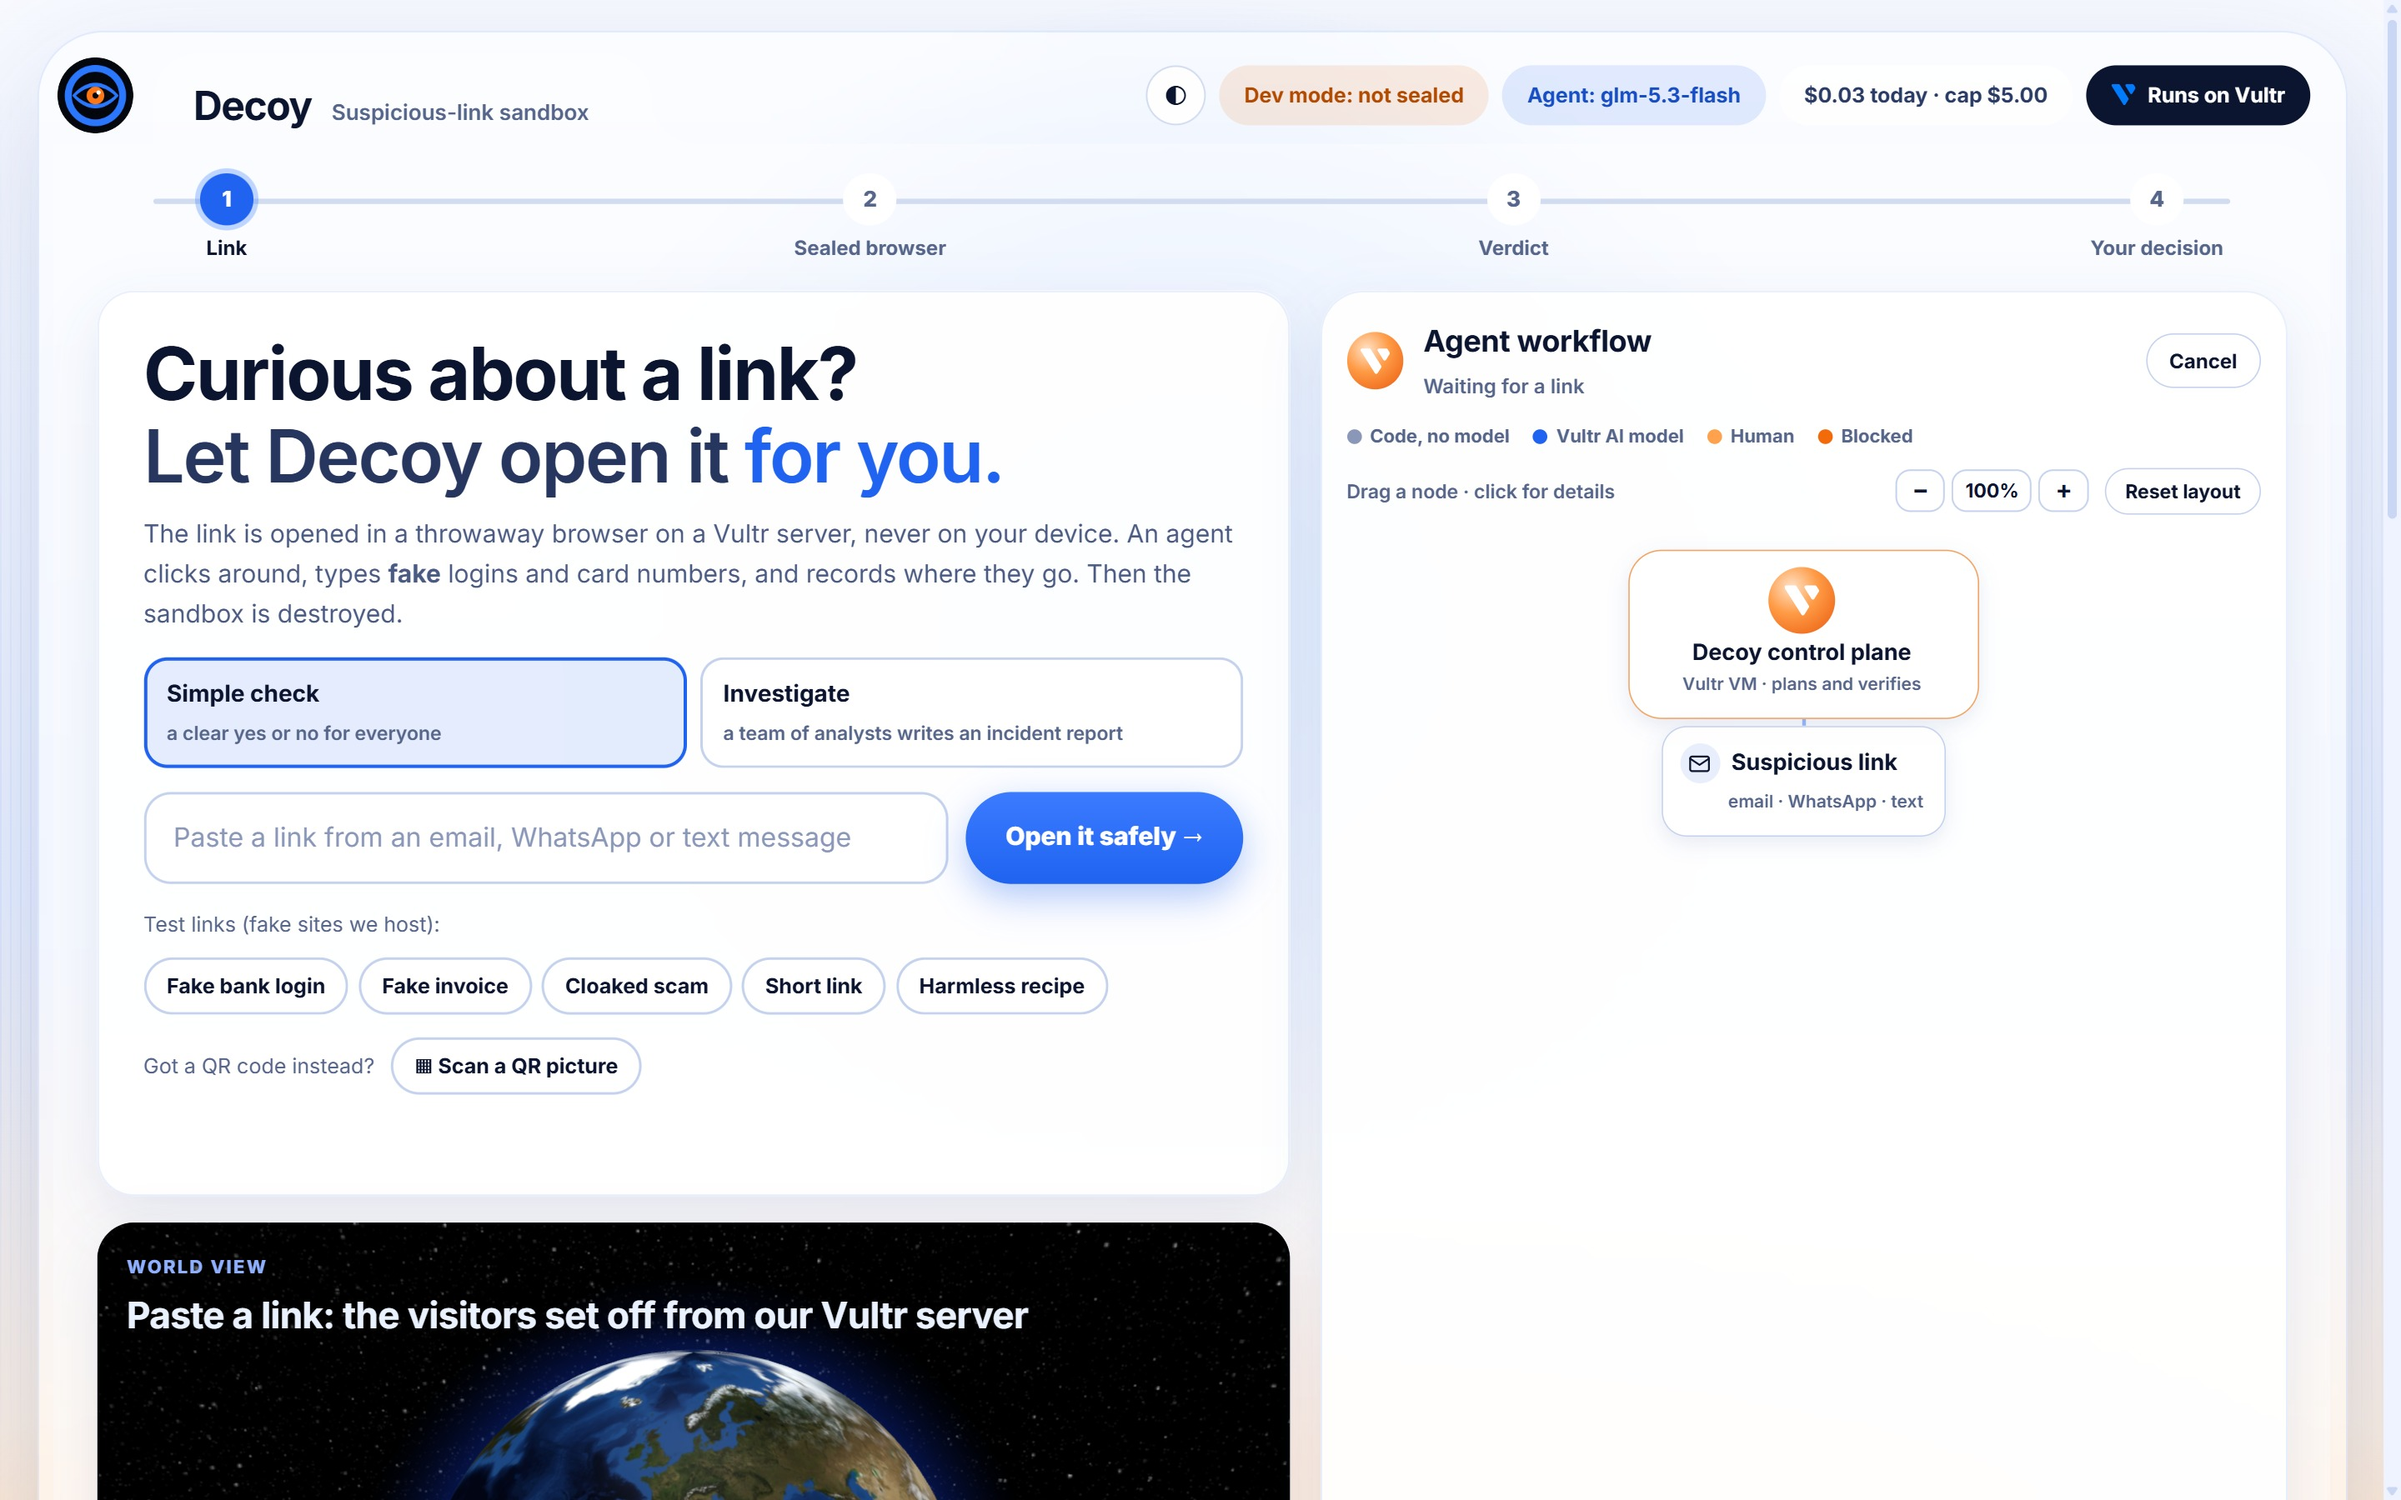
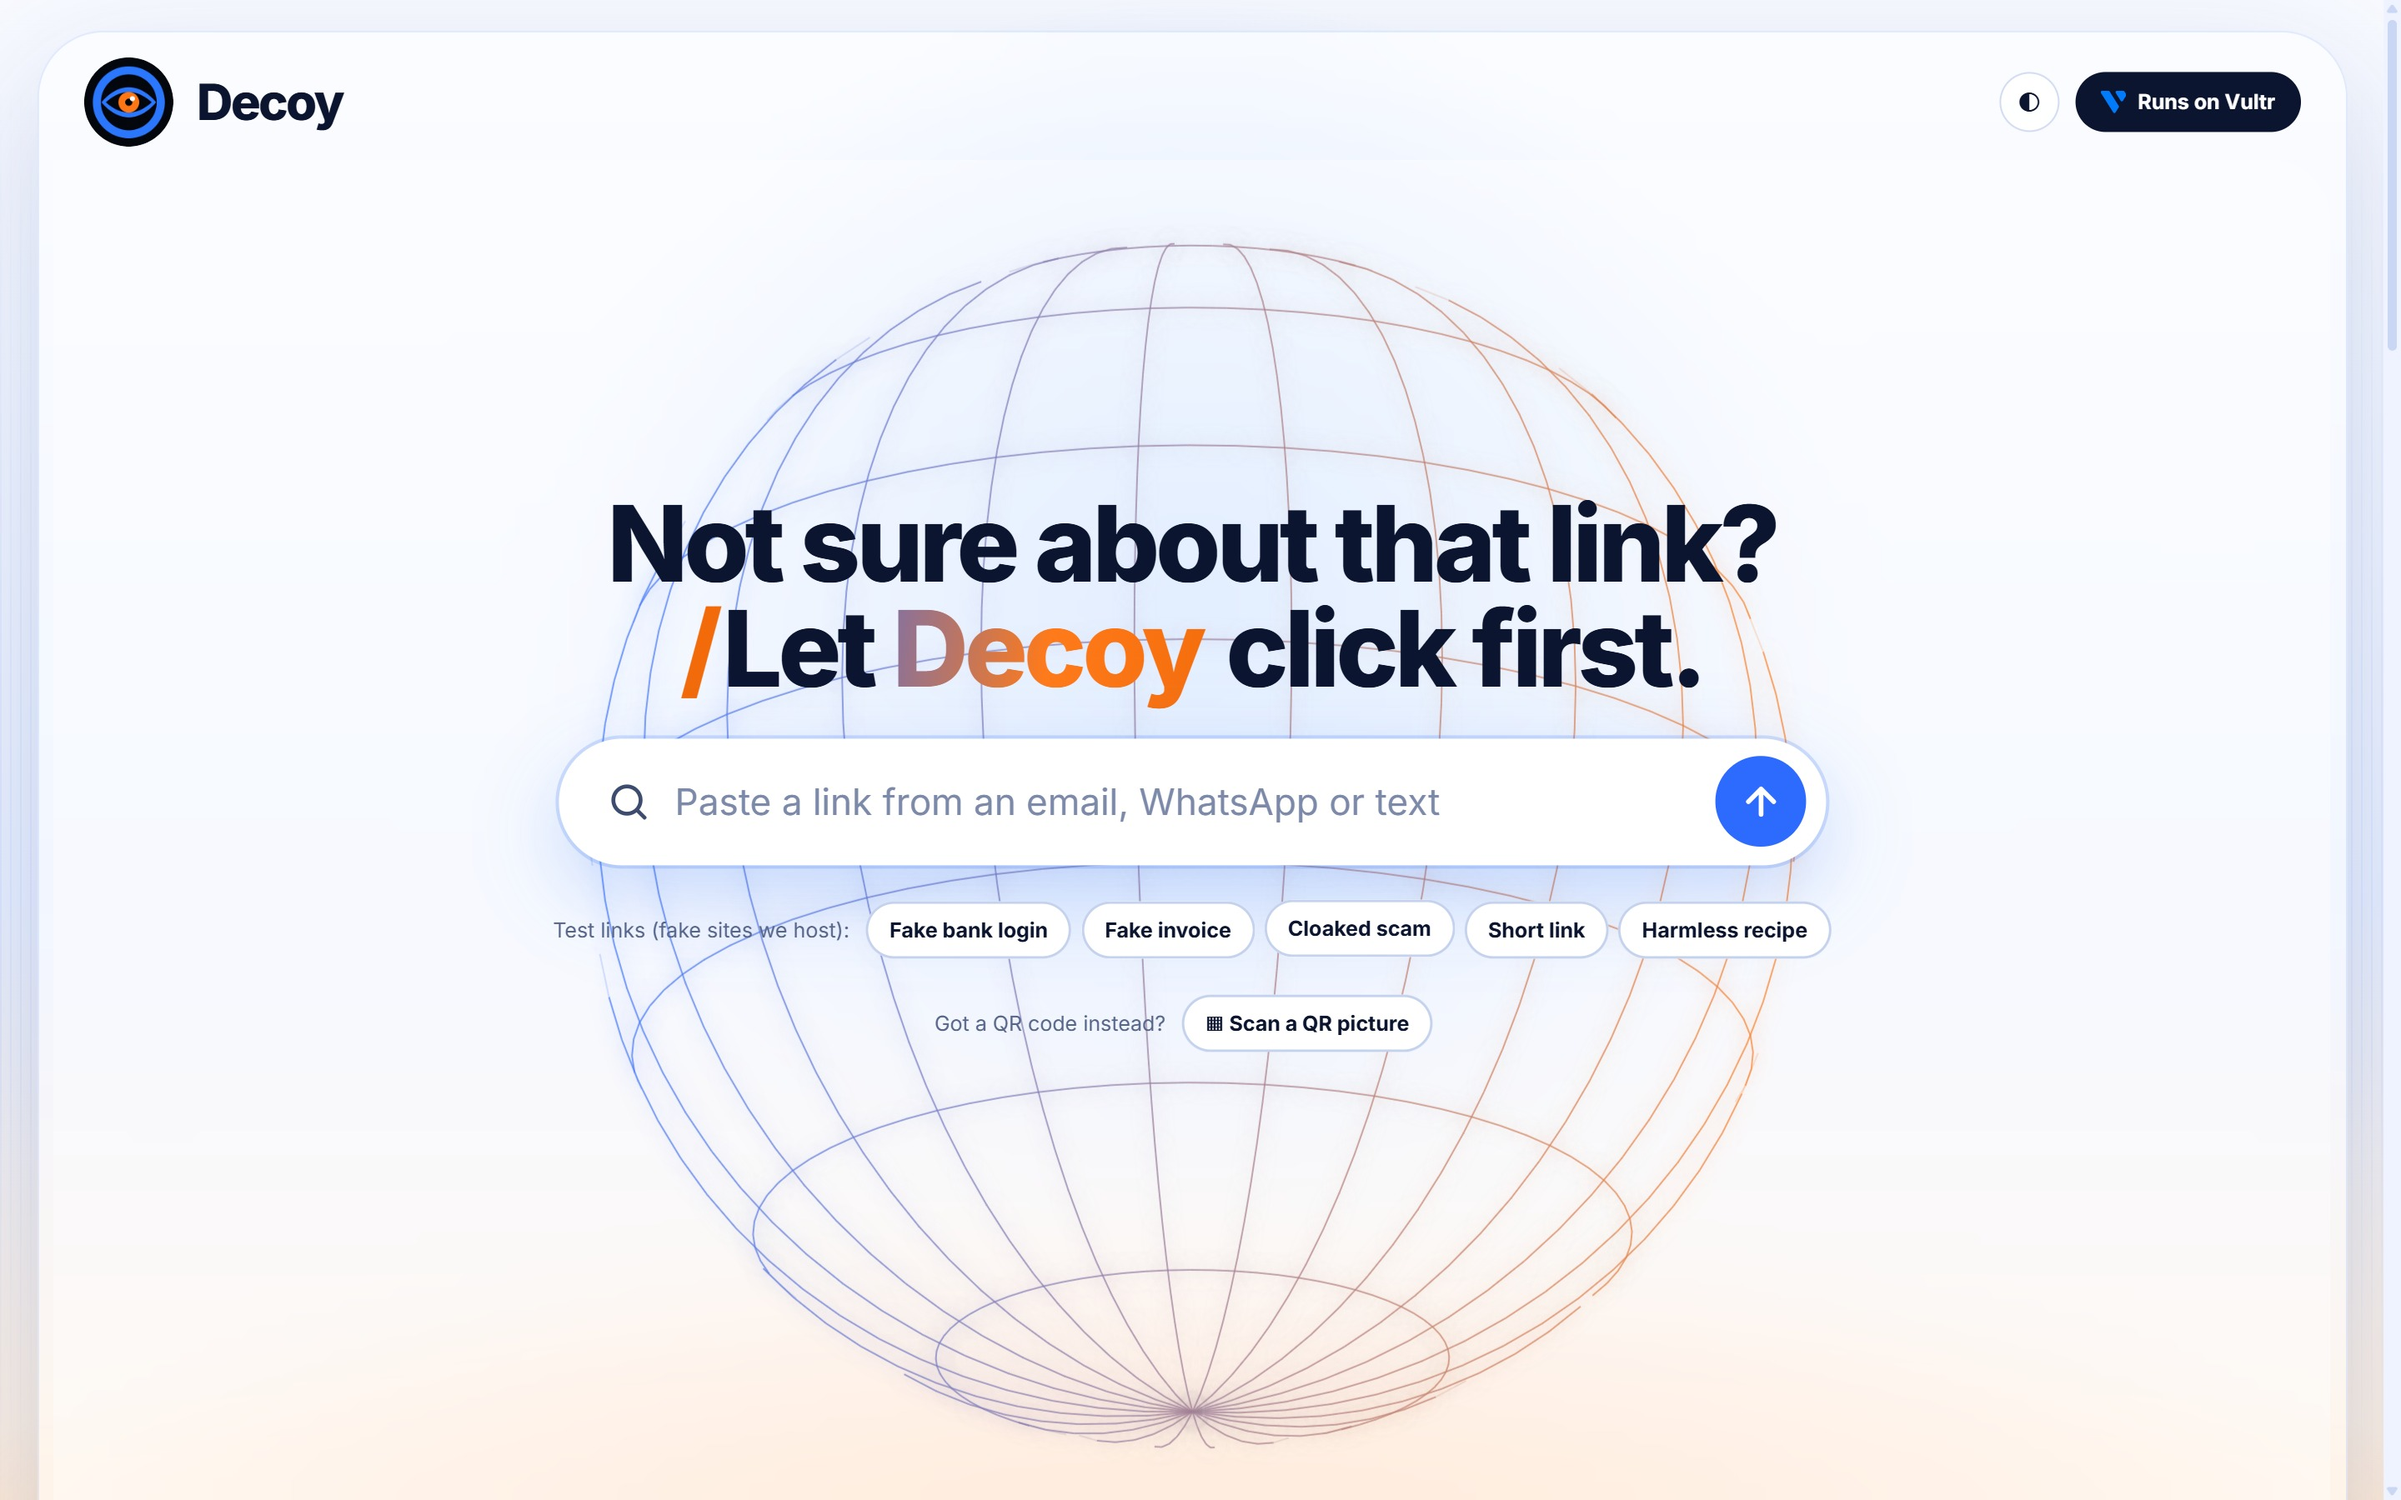
Faster start: two warm sandboxes, live pictures every half second while the page loads

diff --git a/decoy/sandbox.py b/decoy/sandbox.py
@@ -135,12 +135,13 @@ def kill_scan(scan_id: str):
 
 
 class WarmPool:
-    """One sealed browser kept ready for the laptop visitor, so a scan starts in about a second instead of several.
-    It is used by exactly one scan and then destroyed like every other sandbox; a replacement is started right away, and an unused one is replaced every 100 s."""
+    """Two sealed browsers kept ready for the laptop visitor, so a scan starts at once instead of after several seconds.
+    Each is used by exactly one scan and then destroyed like every other sandbox; a replacement is started right away, and an unused one is replaced every 100 s."""
     MAX_AGE = 100
+    SIZE = 2
 
     def __init__(self, prewarm_msg: dict):
-        self.msg, self.lock, self.sb, self.t, self.filling = prewarm_msg, threading.Lock(), None, 0.0, False
+        self.msg, self.lock, self.ready, self.filling = prewarm_msg, threading.Lock(), [], 0
         self.stop = False
 
     def enabled(self) -> bool:
@@ -150,46 +151,57 @@ class WarmPool:
         """Fill the pool now (server start) and keep it fresh in the background."""
         if not self.enabled():
             return
-        threading.Thread(target=self._fill, daemon=True).start()
+        self._top_up()
         threading.Thread(target=self._loop, daemon=True).start()
+
+    def _top_up(self):
+        with self.lock:
+            need = self.SIZE - len(self.ready) - self.filling
+            self.filling += max(need, 0)
+        for _ in range(max(need, 0)):
+            threading.Thread(target=self._fill, daemon=True).start()
 
     def _loop(self):
         while not self.stop:
             time.sleep(20)
+            old = []
             with self.lock:
-                old = self.sb is None or time.time() - self.t > self.MAX_AGE
-            if old:
-                self._fill()
+                for sb, t in list(self.ready):
+                    if time.time() - t > self.MAX_AGE:
+                        self.ready.remove((sb, t))
+                        old.append(sb)
+            for sb in old:
+                sb.destroy()
+            self._top_up()
 
     def _fill(self):
-        with self.lock:
-            if self.filling:
-                return
-            self.filling = True
+        sb = None
         try:
             sb = Sandbox(scan_id="warm")
             sb.start()
             sb.send({"cmd": "prewarm", **self.msg}, timeout=40)
             with self.lock:
-                prev, self.sb, self.t = self.sb, sb, time.time()
-            if prev:
-                prev.destroy()
+                self.ready.append((sb, time.time()))
         except Exception:
-            pass
+            if sb:
+                sb.destroy()
         finally:
             with self.lock:
-                self.filling = False
+                self.filling = max(0, self.filling - 1)
 
     def take(self, scan_id: str):
         """A ready sandbox for this scan, or None (the caller then starts a cold one). A replacement is started either way."""
         if not self.enabled():
             return None
+        sb = None
         with self.lock:
-            sb, self.sb = self.sb, None
-        threading.Thread(target=self._fill, daemon=True).start()
-        if sb and time.time() - self.t <= self.MAX_AGE and sb.proc and sb.proc.poll() is None:
-            sb.scan_id = scan_id
-            return sb
+            while self.ready:
+                cand, t = self.ready.pop(0)
+                if time.time() - t <= self.MAX_AGE and cand.proc and cand.proc.poll() is None:
+                    sb = cand
+                    break
+                cand.destroy()
+        self._top_up()
         if sb:
-            sb.destroy()
-        return None
+            sb.scan_id = scan_id
+        return sb

diff --git a/sandbox/runner.py b/sandbox/runner.py
@@ -178,10 +178,18 @@ class Runner:
         self.page = ctx.new_page()
         self._watch(self.page)
         try:
-            self.page.goto(msg["url"], wait_until="domcontentloaded", timeout=12000)
-            self.frame()  # the first picture goes out the moment the page has a skeleton, not after everything loaded
+            self.page.goto(msg["url"], wait_until="commit", timeout=12000)  # the server answered: the page starts to draw
+            t0 = time.time()
+            while time.time() - t0 < 8:  # live pictures every half second while it loads, so a person sees the page appear at once
+                self.frame()
+                try:
+                    if self.page.evaluate("document.readyState") != "loading":
+                        break
+                except Exception:
+                    pass
+                self.page.wait_for_timeout(450)
             try:
-                self.page.wait_for_load_state("load", timeout=4000)
+                self.page.wait_for_load_state("load", timeout=3500)
             except Exception:
                 pass
         except Exception as e:  # a dead or slow page is still evidence
